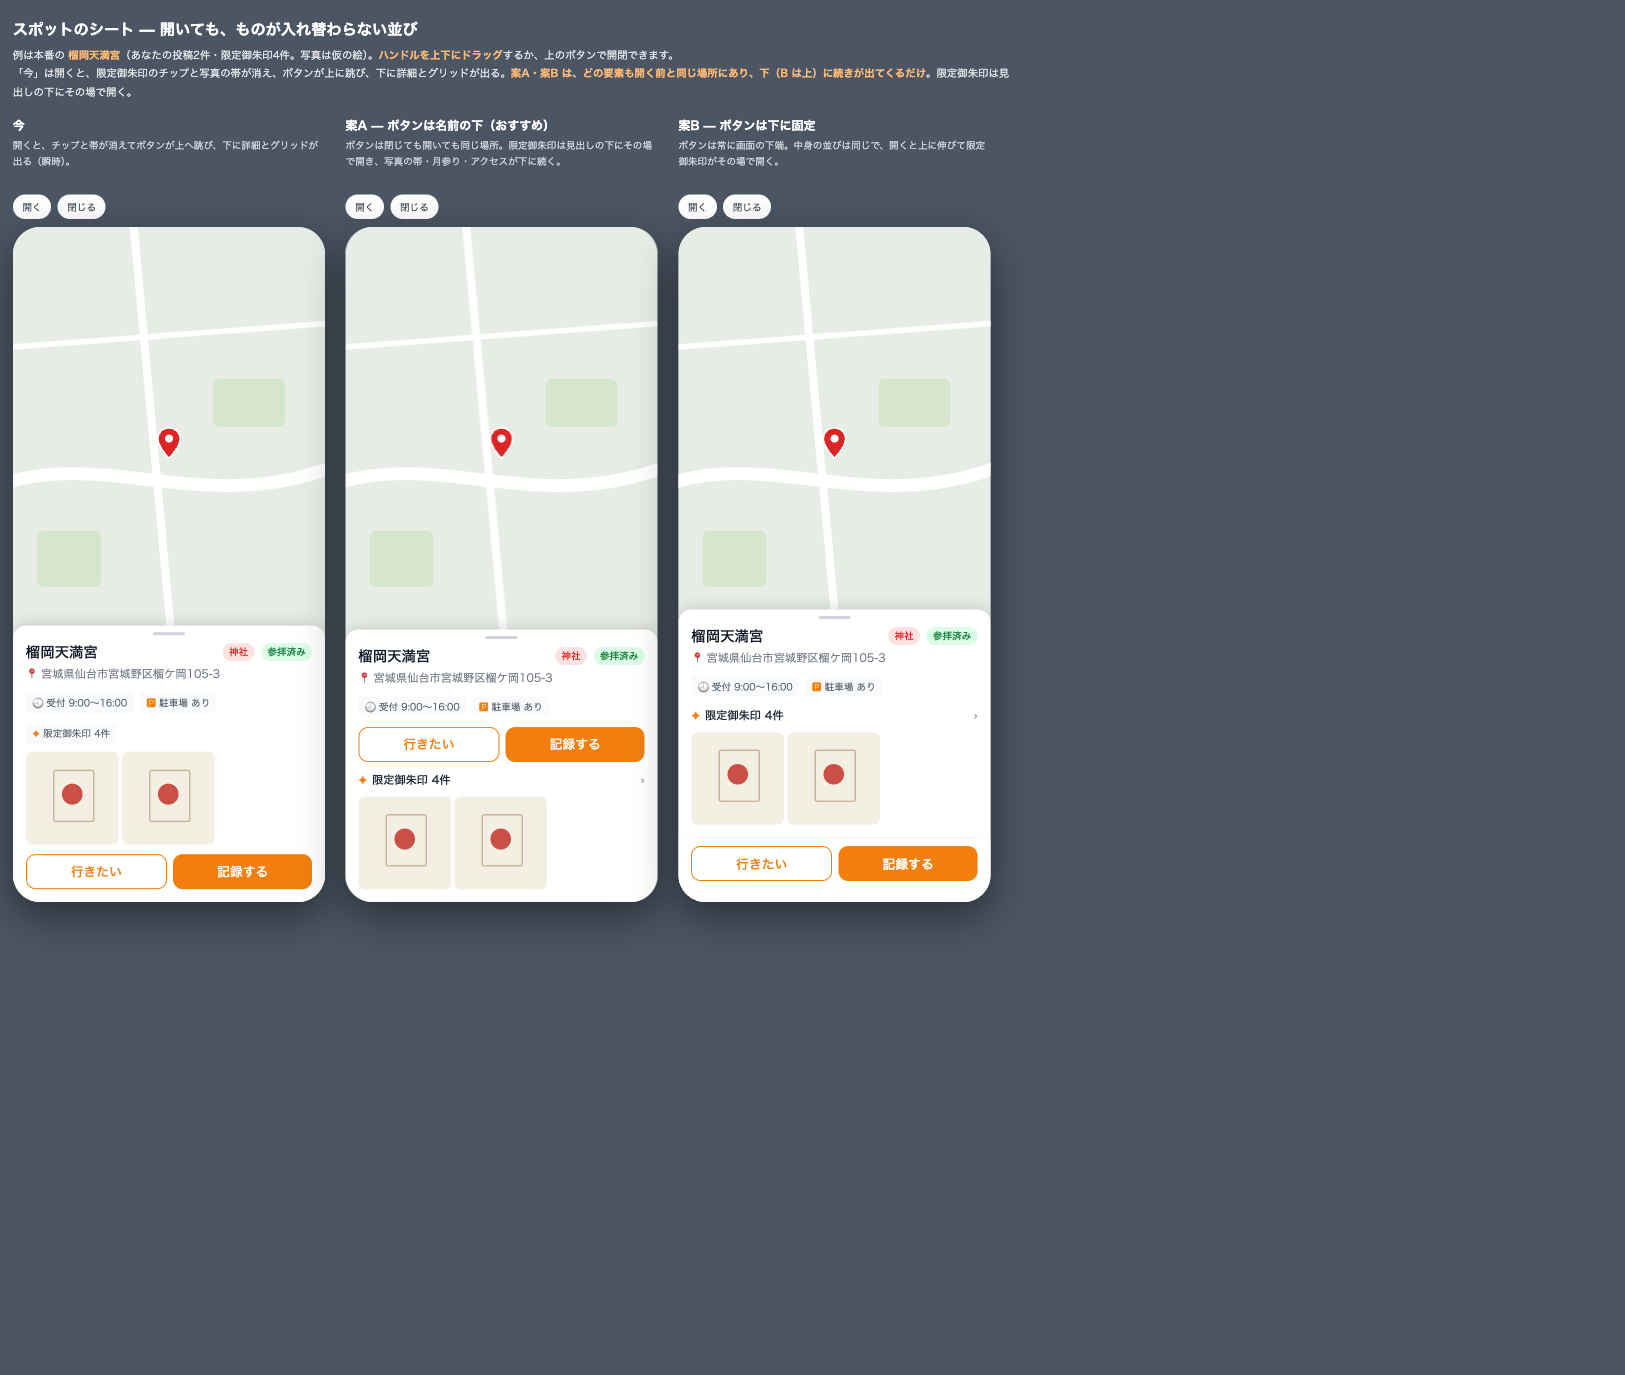
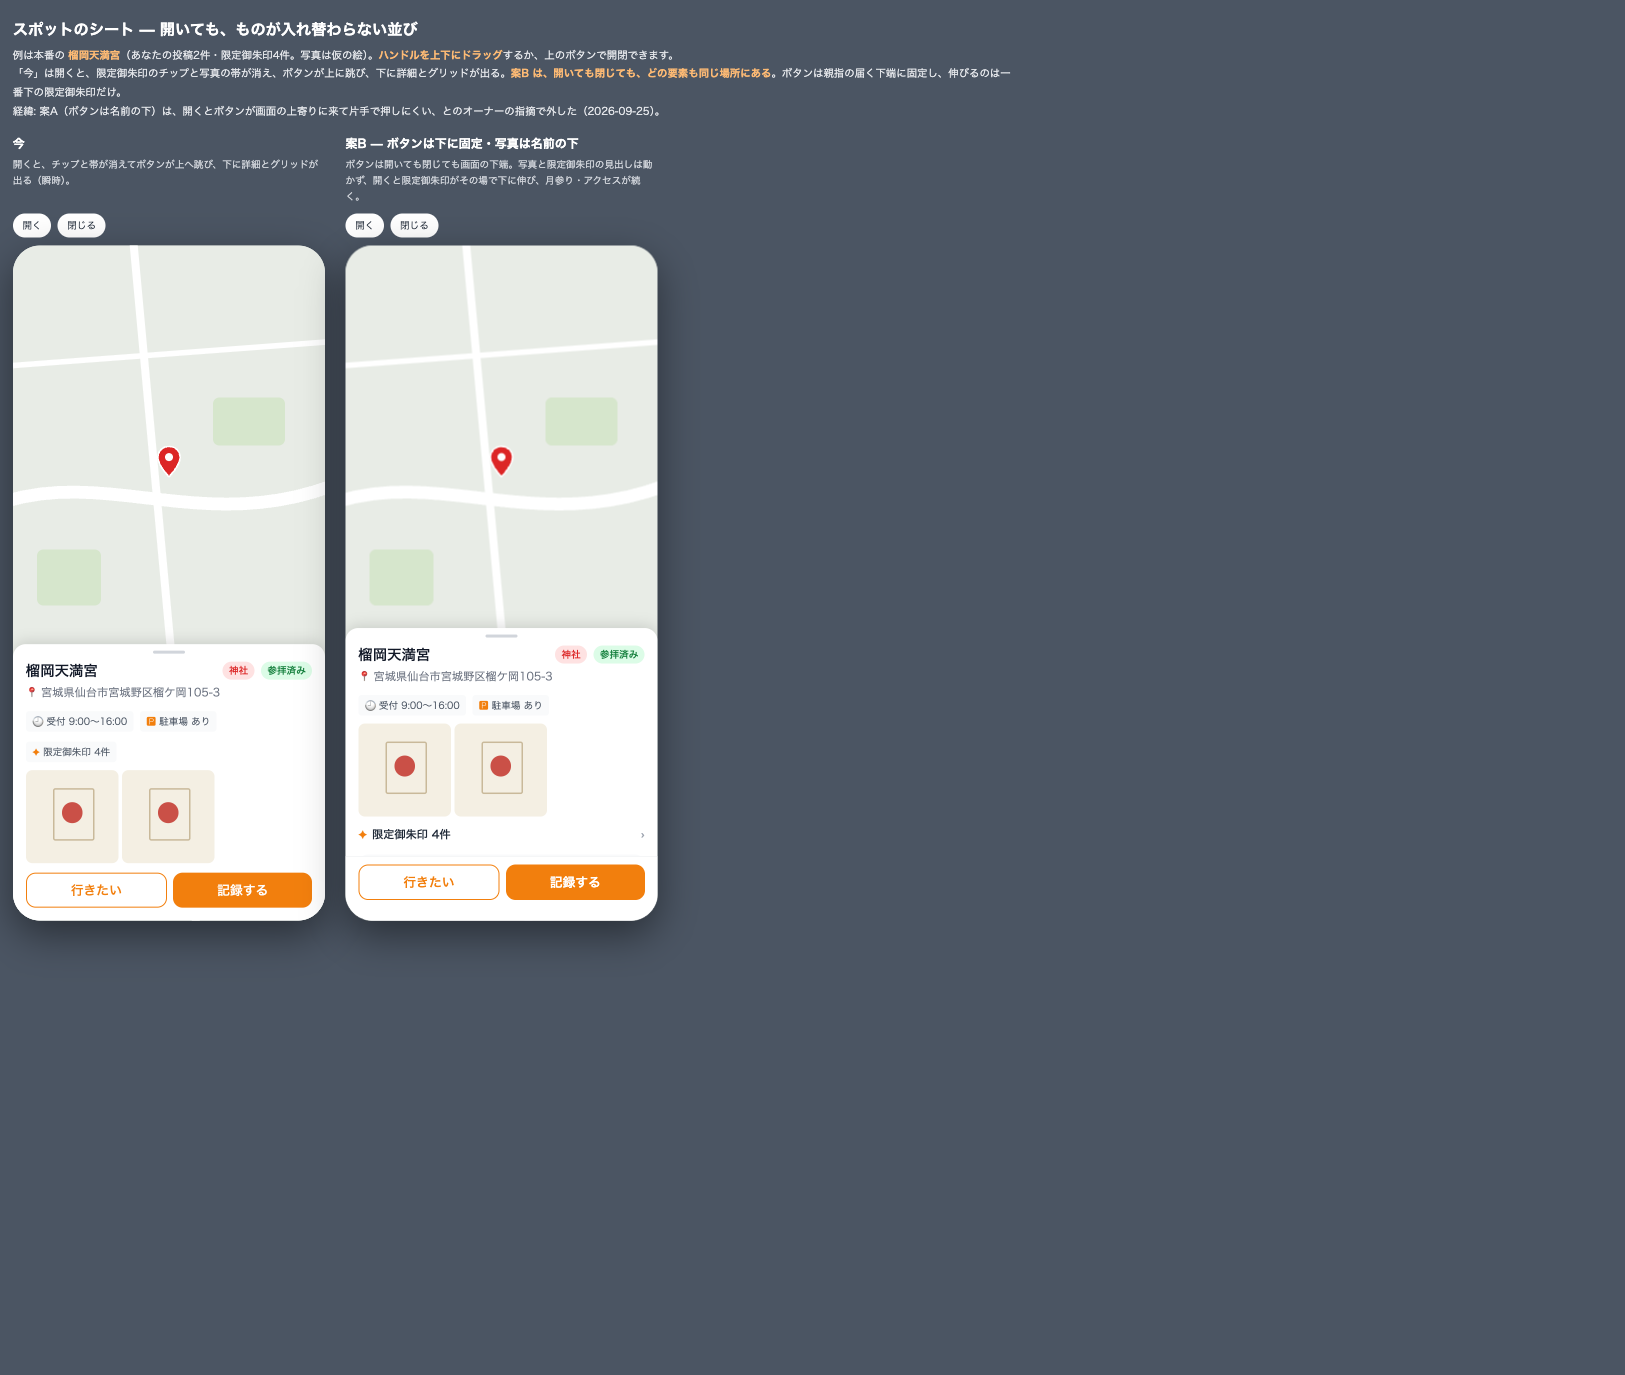
docs: スポットのシートの試作を、ボタン下固定・写真は名前の下に直す
Claude-Session: https://claude.ai/code/session_01Qd1gsMoBjZ3MWFtc8mybnM

Changed region(s): [[0.0, 0.0305, 0.6154, 0.672], [0.2154, 0.2444, 0.3077, 0.2749], [0.3385, 0.2138, 0.3692, 0.2444]]

diff --git a/docs/design/mockups/2026-09-spot-sheet-motion.html b/docs/design/mockups/2026-09-spot-sheet-motion.html
@@ -2,7 +2,7 @@
 <html lang="ja">
 <head>
 <meta charset="utf-8">
-<title>スポットのシート — 開いたときに動かない並び（2案）</title>
+<title>スポットのシート — 開いたときに動かない並び（案B）</title>
 <style>
 /* 値は src/theme と spot-detail の StyleSheet から（色・余白・文字の大きさ） */
 :root{
@@ -79,7 +79,8 @@ h1{color:#fff;font-size:19px;margin-bottom:6px}
 <h1>スポットのシート — 開いても、ものが入れ替わらない並び</h1>
 <p class="lead">
   例は本番の <b>榴岡天満宮</b>（あなたの投稿2件・限定御朱印4件。写真は仮の絵）。<b>ハンドルを上下にドラッグ</b>するか、上のボタンで開閉できます。<br>
-  「今」は開くと、限定御朱印のチップと写真の帯が消え、ボタンが上に跳び、下に詳細とグリッドが出る。<b>案A・案B は、どの要素も開く前と同じ場所にあり、下（B は上）に続きが出てくるだけ</b>。限定御朱印は見出しの下にその場で開く。
+  「今」は開くと、限定御朱印のチップと写真の帯が消え、ボタンが上に跳び、下に詳細とグリッドが出る。<b>案B は、開いても閉じても、どの要素も同じ場所にある</b>。ボタンは親指の届く下端に固定し、伸びるのは一番下の限定御朱印だけ。<br>
+  経緯: 案A（ボタンは名前の下）は、開くとボタンが画面の上寄りに来て片手で押しにくい、とのオーナーの指摘で外した（2026-09-25）。
 </p>
 
 <div class="row" id="row"></div>
@@ -138,14 +139,8 @@ const variants = [
     },
   },
   {
-    key: 'a', title: '案A — ボタンは名前の下（おすすめ）', desc: 'ボタンは閉じても開いても同じ場所。限定御朱印は見出しの下にその場で開き、写真の帯・月参り・アクセスが下に続く。',
-    html: `<div class="grab"><i></i></div><div class="pad">${header}${actions}${lim}${thumbs}<div class="cutA"></div>${rest}</div>`,
-    compactBottom: sheet => sheet.querySelector('.cutA'),
-    set(sheet, open) { sheet.querySelector('.lim').classList.toggle('open', open); },
-  },
-  {
-    key: 'b', title: '案B — ボタンは下に固定', desc: 'ボタンは常に画面の下端。中身の並びは同じで、開くと上に伸びて限定御朱印がその場で開く。',
-    html: `<div class="grab"><i></i></div><div class="pad">${header}${lim}${thumbs}<div class="cutB"></div>${rest}<div style="height:90px"></div></div>`,
+    key: 'b2', title: '案B — ボタンは下に固定・写真は名前の下', desc: 'ボタンは開いても閉じても画面の下端。写真と限定御朱印の見出しは動かず、開くと限定御朱印がその場で下に伸び、月参り・アクセスが続く。',
+    html: `<div class="grab"><i></i></div><div class="pad">${header}${thumbs}${lim}<div class="cutB"></div>${rest}<div style="height:96px"></div></div>`,
     compactBottom: sheet => sheet.querySelector('.cutB'),
     footer: true,
     set(sheet, open) { sheet.querySelector('.lim').classList.toggle('open', open); },
